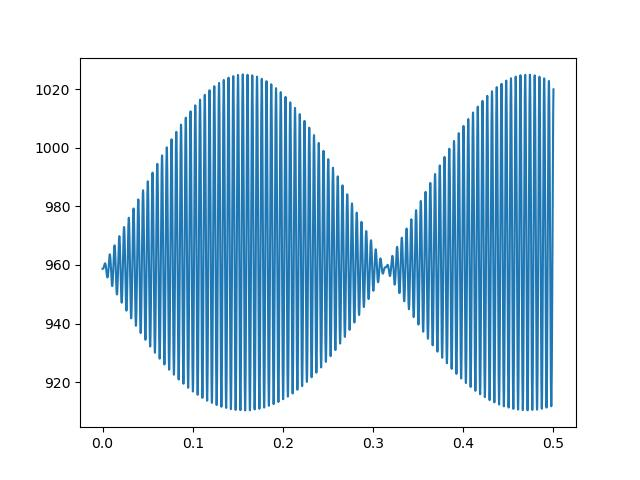
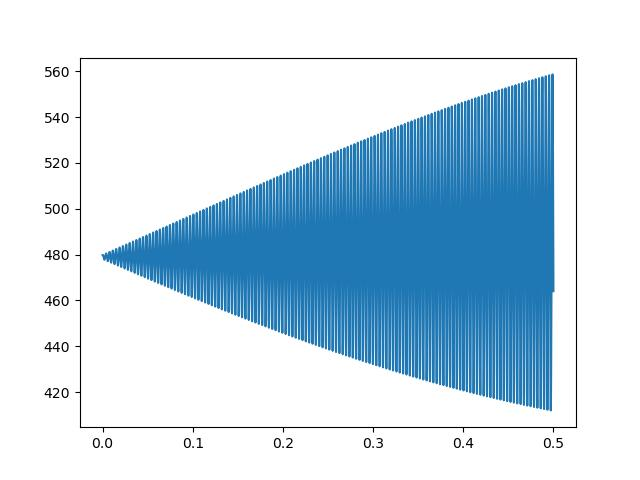
Jun 21st 2024

diff --git a/point_charges.py b/point_charges.py
@@ -83,10 +83,10 @@ L = 1e4
 ### FREE FIELD POTENTIAL BEGIN ###
 ##################################
 k_vector = np.array([
-    [0,0,1],
+    #[0,0,1],
     #[0,1,0],
     #[1,0,0],
-    #[0,1,1],
+    [0,1,1],
     #[1,1,0],
     #[1,1,1]
     ]) * (2 * np.pi / L)
@@ -114,17 +114,17 @@ print("Warning, the volume is set to 1")
 ##############################
 kappa = np.array([
         [0,1],
-        [1,0],
-        [1,1],
+        #[1,0],
+        #[1,1],
         ]) * (2 * np.pi / L)
 
 m = np.array([1] * len(kappa))
 
 amplitude = np.array([
     1 * np.random.uniform(size = 2) + 1j * np.random.uniform(size = 2),
-    1 * np.random.uniform(size = 2) + 1j * np.random.uniform(size = 2),
-    1 * np.random.uniform(size = 2) + 1j * np.random.uniform(size = 2),
-    ]) * 100
+    #1 * np.random.uniform(size = 2) + 1j * np.random.uniform(size = 2),
+    #1 * np.random.uniform(size = 2) + 1j * np.random.uniform(size = 2),
+    ]) * 100 * np.sqrt(L**3)
 
 Afield = CavityVectorPotential(
     kappa = kappa, m = m, amplitude = amplitude,
@@ -136,14 +136,14 @@ Afield = CavityVectorPotential(
 #simple point charge
 r = -np.array([[L, L, L]]) / 100
 v = np.array([[1.0,1.0,1.0]])# * 1e3
-q = np.array([np.eye(3)]) * 1e3
+q = np.array([np.eye(3)]) * 1e4
 
 point_charge = PointCharges(q = q, r = r, r_dot = v)
 
 t = 0
-h = 1e-4
+h = 1e-5
 
-k = 100#(red.c * (2 * np.pi / L) ** 2) ** 2
+k = 4#(red.c * (2 * np.pi / L) ** 2) ** 2
 print(np.sqrt(k))
 
 Hmat = point_charge.kinetic_energy() + oscillator_potential(point_charge, k)
@@ -155,7 +155,7 @@ energy = [Hmat + Hrad]
 time = [0]
 
 #first iteration w/ Euler integration (and trapezoidal rule)
-for i in range(5000):
+for i in range(50000):
     force_func = lambda t, charge_assembly:\
             EM_force(t, charge_assembly, Afield) \
             + oscillator_force(charge_assembly, k)
